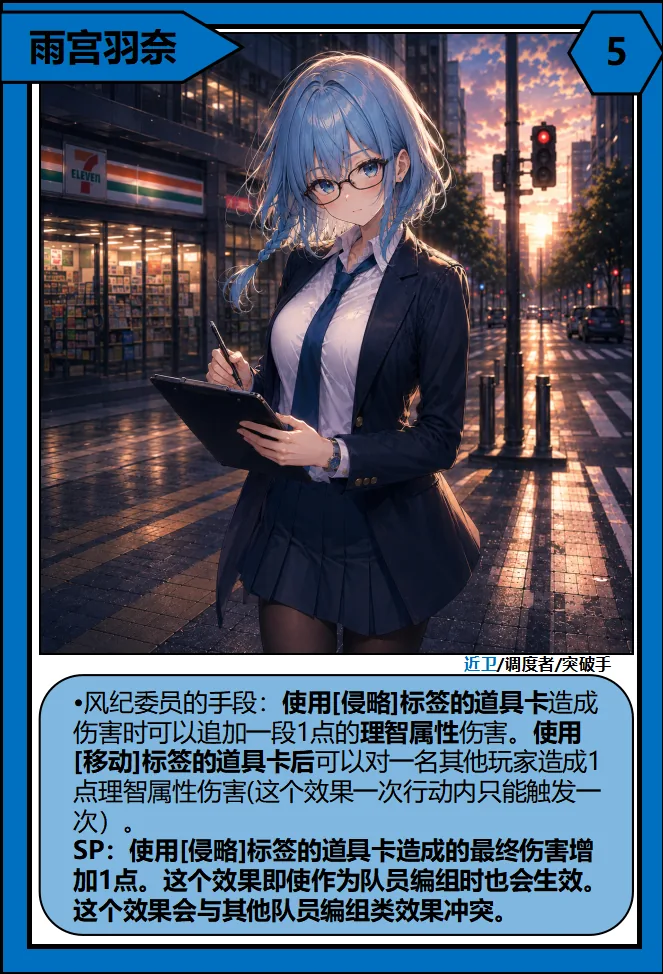
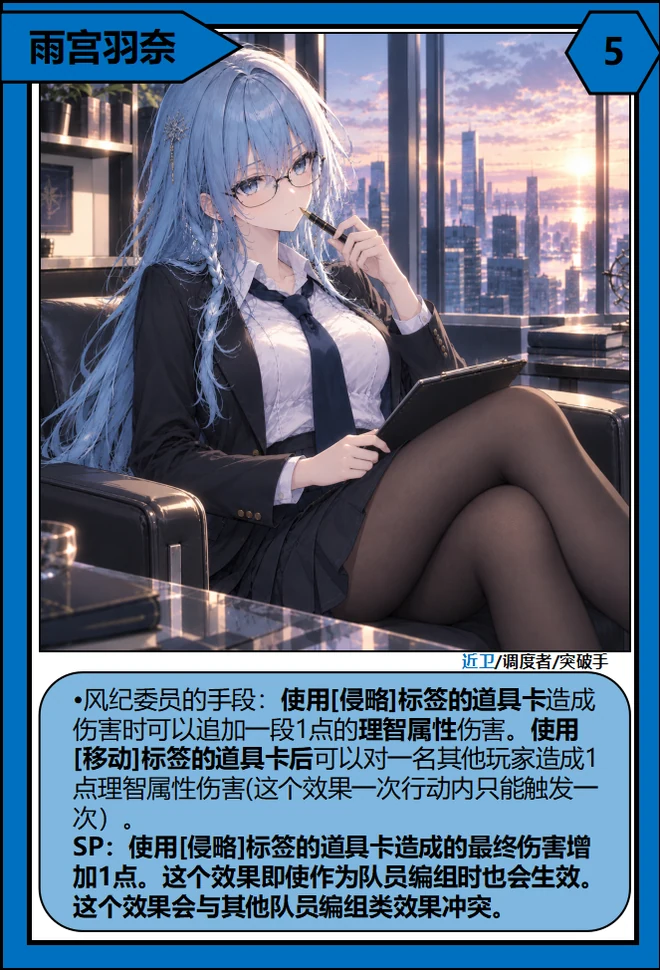
修正插画映射（作者指出改错人）：羽奈→雨宫羽奈 img_WqKZD5V99F、予（水着）→予(水着) img_ynGbhERmQy；还原被误覆盖的 羽奈(往昔) 与 入间予 卡图；对战页对决头改用角色头像

diff --git a/game.html b/game.html
@@ -14924,10 +14924,13 @@ function __updateBattleUI_impl() {
         var P = battleState[pl];
         var cap = P.captain || null;
         var img = document.getElementById(pl + 'PortraitImg');
-        if (img && cap && cap.image_url && img.getAttribute('data-src') !== cap.image_url) {
-          img.setAttribute('data-src', cap.image_url);
+        /* 【2026-09-30 作者要求】对战页（对决头）名字旁改用**角色头像**（assets/avatars/av_N.jpg），
+           没有头像的角色自动回落到卡图。上一版我改错了地方（改成了肉鸽页 rlPlayerPortrait）⇒ 界面没变化。 */
+        var __face = cap ? (cap.avatar_url || cap.image_url) : null;
+        if (img && __face && img.getAttribute('data-src') !== __face) {
+          img.setAttribute('data-src', __face);
           img.style.display = '';
-          img.src = cap.image_url;
+          img.src = __face;
         }
         var nm = document.getElementById(pl + 'Name');
         if (nm && cap) nm.textContent = cap.name;
